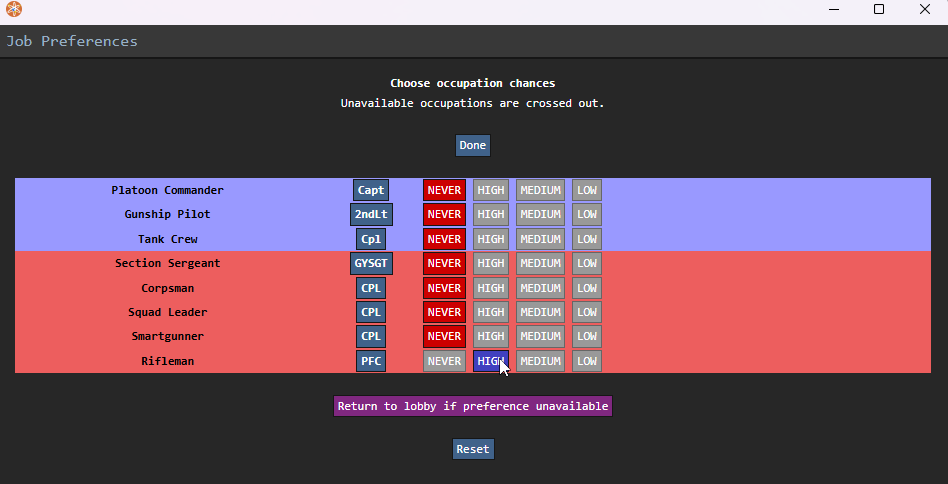
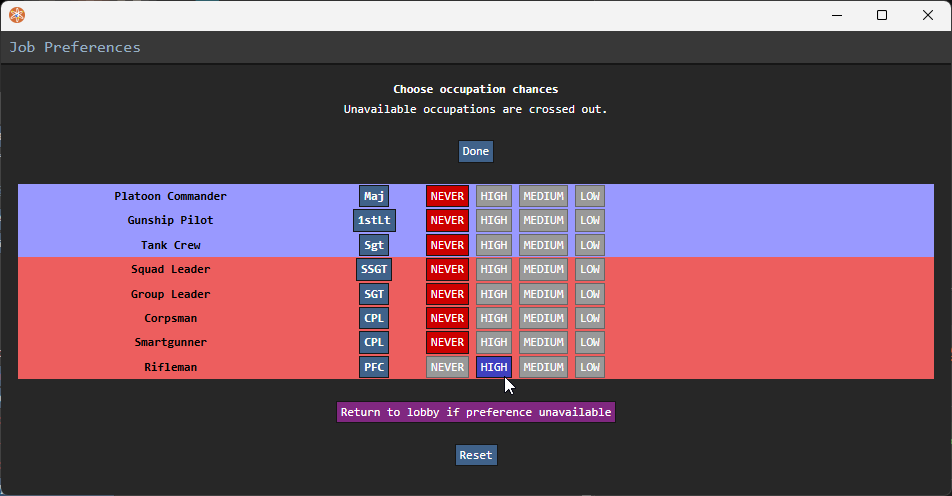
fix: changed sergeants to leaders

diff --git a/docs/roles/leaders.md b/docs/roles/leaders.md
@@ -1,10 +1,10 @@
-# Руководство сержанта: Как не стать причиной гибели отряда
+# Руководство лидера: Как не стать причиной гибели отряда
 
-Это руководство для продвинутых игроков, которые уже «пощупали» игру и хотят большего, чем просто отстрел чужих и ловля маслин. Помните: сержант — это не просто лычки, это ответственность за жизни тех, кто идет за вами.
+Это руководство для продвинутых игроков, которые уже «пощупали» игру и хотят большего, чем просто отстрел чужих и ловля маслин. Помните: лидер — это не просто какая-то роль, это ответственность за жизни тех, кто идет за вами.
 
 ---
 
-## Базовые требования к сержанту
+## Базовые требования к лидеру
 
 1.  **Ориентирование на местности:** В пылу боя легко зайти не за тот угол и потеряться. 
 
@@ -34,10 +34,10 @@
 
 ## Снаряжение и вооружение
 
-### Набор Лидера (Squad Leader Kit)
+### Набор Лидера отряда (Squad Leader Kit)
 
-!!! warning "Только для Штаб-сержанта"
-    Данный набор доступен исключительно **Штаб-сержанту (Section Sergeant)**. Сержанты огневых групп (Squad Leader) должны, либо собирать этот набор в вендорах за поинты, либо собирать что-то своё.
+!!! warning "Только для Лидера отряда"
+    Данный набор доступен исключительно **Лидер отряда**. Лидеры группы должны, либо собирать этот набор в вендорах за поинты, либо собирать что-то своё.
 
 Всегда оставляйте место под этот набор. Он бесплатный и содержит критически важные вещи:
 
@@ -56,16 +56,16 @@
     Чтобы воспользоваться телефоном, нажмите на **кнопку со значком телефона** в панели слева сверху.
 
 ### Выбор оружия
-Арсенал у сержантов обширный, но лучше остановиться на проверенных вариантах:
+Арсенал обширный, но лучше остановиться на проверенных вариантах:
 
 1.  **M41AE2 (Ручной пулемет):** Идеально для поливания врага непрерывным дождем свинца.
 2.  **M41A mk2:** Классическая винтовка с 4-зарядным подствольным гранатометом.
    
-*Специфическое оружие лучше оставить специалистам — оно слишком ситуативно. Сержанту огневой группы допустимо взятие набора специалиста, только в случаях если никто из пехотинцев не взял набор и в наборе нет памфлета с навыками.*
+*Специфическое оружие лучше оставить специалистам — оно слишком ситуативно. Лидеру группы допустимо взятие набора специалиста, только в случаях если никто из пехотинцев не взял набор и в наборе нет памфлета с навыками.*
 
 ---
 
 !!! info "Иерархия командования"
 
-    * **Штаб-сержант (Section Sergeant):** Командует всем отрядом (9 человек). Отвечает за общую тактику и связь с командованием взвода.
-    * **Сержант огневой группы (Squad Leader):** Командует своей «четвёркой» бойцов. Подчиняется напрямую Штаб-сержанту.
+    * **Лидер отряда:** Командует всем отрядом (9 человек). Отвечает за общую тактику и связь с командованием взвода.
+    * **Лидер группы:** Командует своей «четвёркой» бойцов. Подчиняется напрямую лидеру отряда.

diff --git a/docs/guides/lobby.md b/docs/guides/lobby.md
@@ -29,17 +29,17 @@
 | **Командир взвода** | Стратегия, брифинги и запросы снабжения с корабля. Сложность и интенсивность резко сменяются на высокие, если командир высаживается на землю. | **Низкая** | **Низкая** |
 | **Пилот** | Десантирование, авиаподдержка (CAS) и эвакуация. | **Средняя** | **Низкая** |
 | **Экипаж техники** | Управление и ремонт танков, БТР и БМП. | **Средняя** | **Средняя** |
-| **Штаб-сержант (Section Sergeant)** | **Командир отряда (9 чел.)**. Полевой лидер и координатор. | **Высокая** | **Высокая** |
-| **Сержант огн. группы (Squad Leader)** | **Лидер «четвёрки»**. Командует своей огневой группой. | **Средняя** | **Низкая-Высокая** |
-| **Медик (Corpsman)** | Полевая хирургия, реанимация и спасение жизней. | **Высокая** | **Огромная!** |
+| **Лидер отряда** | **Командир отряда (9 чел.)**. Полевой лидер и координатор. | **Высокая** | **Высокая** |
+| **Лидер группы** | **Лидер «четвёрки»**. Командует своей огневой группой. | **Средняя** | **Низкая-Высокая** |
+| **Медик** | Полевая хирургия, реанимация и спасение жизней. | **Высокая** | **Огромная!** |
 | **Смартганнер** | Подавление врага огнем «умного» пулемета. | **Средняя** | **Высокая** |
-| **Пехотинец (Rifleman)** | Универсальный боец. Основа огневой мощи. | **Низкая** | **Низкая-Высокая** |
+| **Пехотинец** | Универсальный боец. Основа огневой мощи. | **Низкая** | **Низкая-Высокая** |
 
-#### Иерархия сержантов
+#### Иерархия лидеров
 Чтобы не путаться в рации и понимать, кто ваш непосредственный начальник:
 
-* **Штаб-сержант (Section Sergeant):** Главный в отряде. Он видит картину боя целиком и командует всем отрядом.
-* **Сержант огневой группы (Squad Leader):** Помощник штаб-сержанта. Командует своей «четвёркой» бойцов для выполнения локальных задач (штурм здания, удержание прохода).
+* **Лидер отряда:** Главный в отряде. Он видит картину боя целиком и командует всем отрядом.
+* **Лидер группы:** Помощник лидера отряда. Командует своей «четвёркой» бойцов для выполнения локальных задач (штурм здания, удержание прохода).
 
 ---
 

diff --git a/docs/guides/interface.md b/docs/guides/interface.md
@@ -80,15 +80,15 @@
 
 ## Состояние персонажа (Справа посередине)
 * **Планшет (Squad Tablet):** Список вашего отряда, их распределение по огневым группам и текущие роли. 
-    * **Функция компаса:** Помимо списка, сам значок планшета на экране показывает направление к вашему лидеру или ключевой точке. Он может указывать на: **Штаб-сержанта** (Section Sergeant), **Сержанта огневой группы** (Squad Leader), **Командира взвода** или **Точку высадки (LZ)**.
+    * **Функция компаса:** Помимо списка, сам значок планшета на экране показывает направление к вашему лидеру или ключевой точке. Он может указывать на: **Лидера отряда**, **Лидера группы**, **Командира взвода** или **Точку высадки (LZ)**.
     * **Как переключать:** Нажмите **Alt + ЛКМ** на иконку планшета, чтобы сменить цель, на которую он указывает.
     
 !!! warning "Почему иконка пустая?"
     Если планшет не показывает стрелку и выглядит «пустым», значит цель не найдена. Это происходит, если:
     
-    1. В вашей огневой группе нет лидера (Fireteam Sergeant).
+    1. В вашей огневой группе нет лидера группы.
     2. Вы сами не назначены ни в одну огневую группу.
-    3. Роли Штаб-сержанта или Командира взвода вакантны (никто их не занял).
+    3. Роли лидера отряда или командира взвода вакантны (никто их не занял).
     4. Точка высадки еще не установлена.
 
 * **Индикатор боли (Pain Indicator):** Зеленый человечек с числом «100». Это не полоска здоровья в привычном понимании, а датчик того, насколько вашему персонажу сейчас **больно**.

diff --git a/docs/lore.md b/docs/lore.md
@@ -48,8 +48,8 @@
 
 | Роль | Кол-во | Обязанности |
 | :--- | :---: | :--- |
-| **Штаб-сержант** | 1 | Командование отрядом |
-| **Сержант огневой группы** | 2 | Лидеры «четвёрок» |
+| **Лидер отряда** | 1 | Командование отрядом |
+| **Лидер группы** | 2 | Лидеры «четвёрок» |
 | **Медик** | 1 | Полевая медицина |
 | **Смартганнер** | 1 | Тяжелая огневая мощь |
 | **Пехотинец** | 4 | Основная ударная сила |
@@ -59,9 +59,9 @@
 
     * **[2] Пехотинец** — основная огневая мощь и прикрытие.
     * **[1] Специалист** — (Медик **или** Смартганнер).
-    * **[1] Сержант группы** — полевое командование и координация.
+    * **[1] Лидер группы** — полевое командование и координация.
 
-    > **Итого:** 4 бойца в группе. Штаб-сержант осуществляет общее руководство обоими группами.
+    > **Итого:** 4 бойца в группе. Лидер отряда осуществляет общее руководство обоими группами.
 
 ---
 

diff --git a/docs/index.md b/docs/index.md
@@ -34,7 +34,7 @@ hide:
     3. **Поел?** Закинься парой порций в столовой, чтобы не упасть в обморок от голода.
     4. **Брифинг?** Послушай офицера, чтобы знать, куда бежать и в кого стрелять.
     5. **Вооружился?** Возьми пушку, проверь предохранитель и набей карманы медициной.
-    6. **Готов к вылету?** Явись на **построение** вне десантного корабля и только после команды сержанта или командира совершай **посадку**, не забыв пристегнуться в кресле.
+    6. **Готов к вылету?** Явись на **построение** вне десантного корабля и только после команды совершай **посадку**, не забыв пристегнуться в кресле.
 
 !!! info "Статус руководства"
     Вики находится в активной разработке. Если вы нашли ошибку или хотите дополнить вики — пишите в #cm-чатик или в cm-список-предложений.
